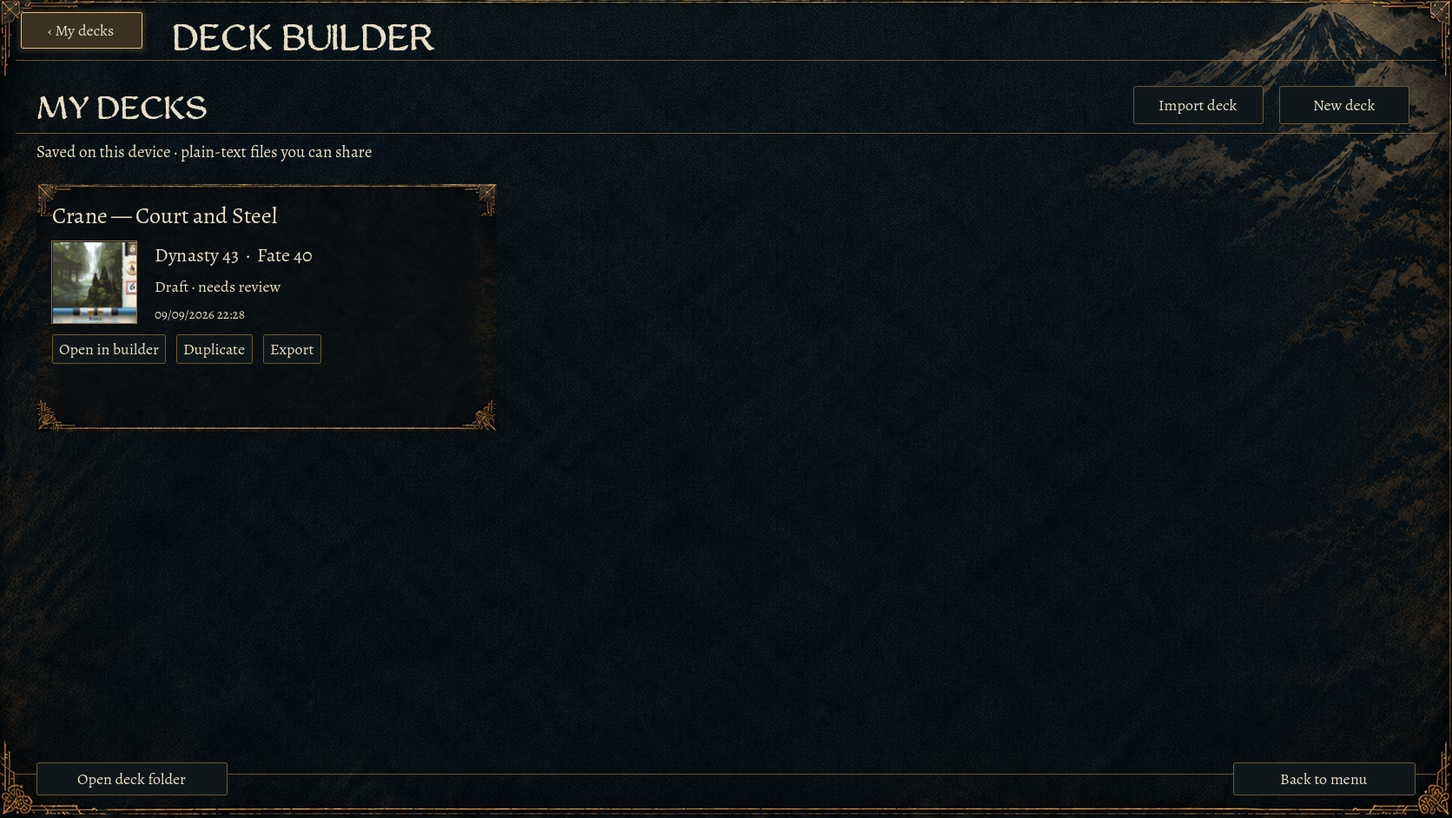
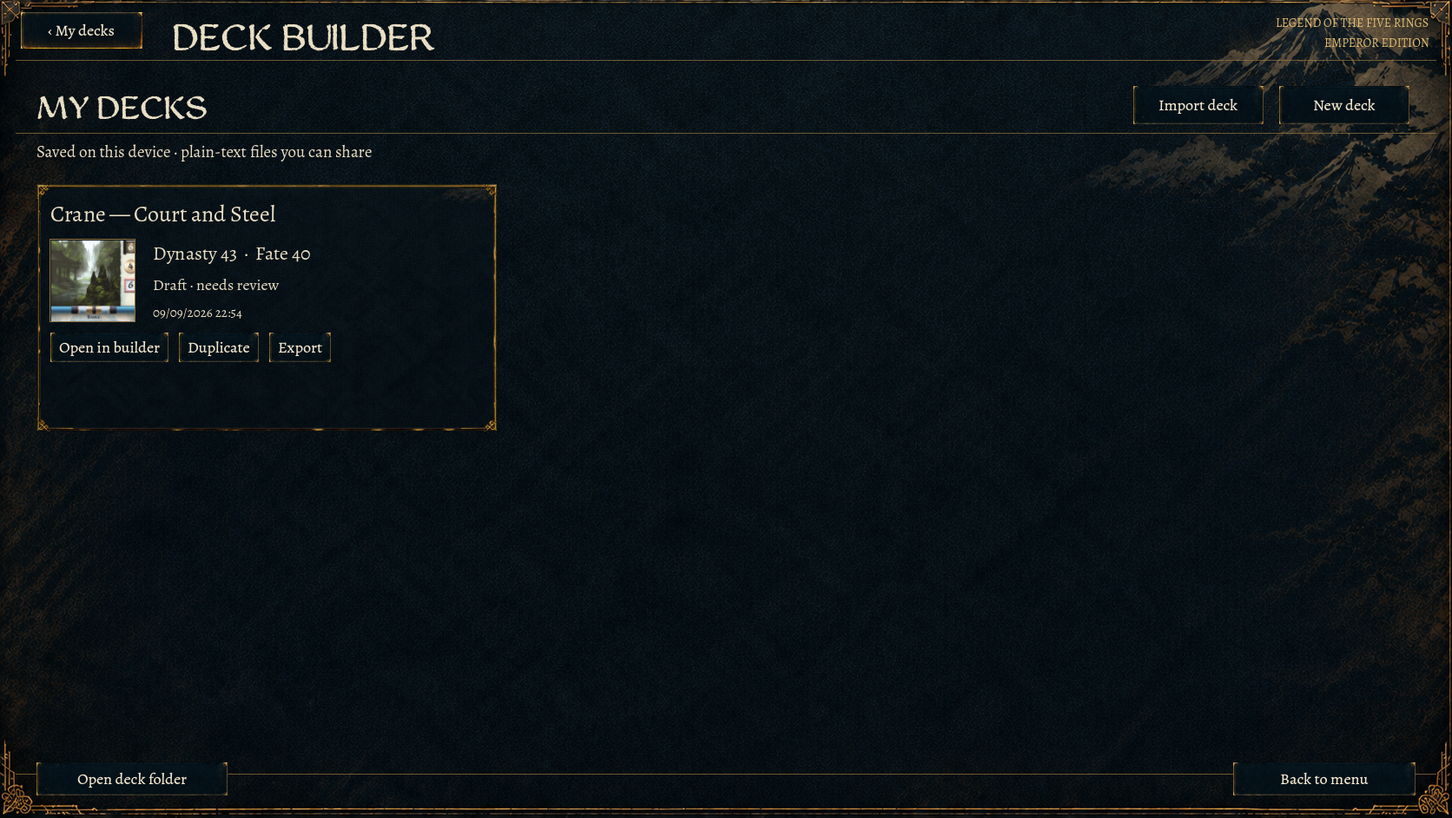
Replace flat deck controls with generated brass and lacquer materials

diff --git a/docs/screenshots/deck-builder/index-v2.html b/docs/screenshots/deck-builder/index-v2.html
@@ -1,0 +1,1 @@
+<!doctype html><meta charset="utf-8"><title>Deck builder · Material pass</title><style>body{background:#091217;color:#e9dfc5;font:18px Georgia;margin:28px}h1,h2{color:#dfba73}section{margin:38px 0}.pair{display:grid;grid-template-columns:1fr 1fr;gap:22px}figure{margin:12px 0}figcaption{margin-bottom:12px;color:#cec1a0}img.full{width:100%;border:1px solid #8a7045}a{color:#ecd3a2}p{max-width:1100px;line-height:1.6}.detail{position:relative;overflow:hidden;border:1px solid #806a43;background:#071014}.detail img{position:absolute;max-width:none;width:3344px}@media(max-width:1000px){.pair{grid-template-columns:1fr}}</style><h1>Deck builder · Material pass</h1><p>Native Godot captures after replacing the rejected flat controls. Generated lacquer and brass are now the actual button materials; labels, selection states and quantities remain live. Panel borders, checkbox/radio markers, setup thumbnails, dropdowns and dialogs share the treatment.</p><section><h2>Approved mat versus revised game</h2><div class="pair"><figure><figcaption>Reference / previous</figcaption><a href="../../../assets/ui/deck-builder/H-quantity-toolbar.png"><img class="full" src="../../../assets/ui/deck-builder/H-quantity-toolbar.png"></a></figure><figure><figcaption>Actual game</figcaption><a href="mat-v2.png"><img class="full" src="mat-v2.png"></a></figure></div></section><section><h2>Approved setup versus revised game</h2><div class="pair"><figure><figcaption>Reference / previous</figcaption><a href="../../../assets/ui/deck-builder/I-setup-category.png"><img class="full" src="../../../assets/ui/deck-builder/I-setup-category.png"></a></figure><figure><figcaption>Actual game</figcaption><a href="setup-v2.png"><img class="full" src="setup-v2.png"></a></figure></div></section><section><h2>Previous implementation versus material pass</h2><div class="pair"><figure><figcaption>Reference / previous</figcaption><a href="mat-v1.png"><img class="full" src="mat-v1.png"></a></figure><figure><figcaption>Actual game</figcaption><a href="mat-v2.png"><img class="full" src="mat-v2.png"></a></figure></div></section><section><h2>Controls at 2× · reference and actual game</h2><h3>Gold Save button</h3><div class="pair"><figure><figcaption>Approved source</figcaption><div class="detail" style="width:380px;height:110px"><img src="../../../assets/ui/deck-builder/H-quantity-toolbar.png" style="left:-2272px;top:-18px"></div></figure><figure><figcaption>Native game</figcaption><div class="detail" style="width:380px;height:110px"><img src="mat-v2.png" style="left:-2272px;top:-18px"></div></figure></div><h3>Selected Collection tab</h3><div class="pair"><figure><figcaption>Approved source</figcaption><div class="detail" style="width:310px;height:96px"><img src="../../../assets/ui/deck-builder/H-quantity-toolbar.png" style="left:-40px;top:-322px"></div></figure><figure><figcaption>Native game</figcaption><div class="detail" style="width:310px;height:96px"><img src="mat-v2.png" style="left:-44px;top:-330px"></div></figure></div><h3>Quantity controls</h3><div class="pair"><figure><figcaption>Approved source</figcaption><div class="detail" style="width:304px;height:138px"><img src="../../../assets/ui/deck-builder/H-quantity-toolbar.png" style="left:-808px;top:-1002px"></div></figure><figure><figcaption>Native game</figcaption><div class="detail" style="width:304px;height:138px"><img src="mat-v2.png" style="left:-806px;top:-1036px"></div></figure></div></section><section><h2>Inspection and comparison</h2><a href="compare-v2.png"><img class="full" src="compare-v2.png"></a></section><section><h2>Dropdown menu</h2><a href="filter-menu-v2.png"><img class="full" src="filter-menu-v2.png"></a></section><section><h2>Unsaved-draft dialog</h2><a href="after-guard-v2.png"><img class="full" src="after-guard-v2.png"></a></section><section><h2>Compact window · 1280 × 800</h2><a href="small-window-v2.png"><img class="full" src="small-window-v2.png"></a></section><section><h2>Saved decks</h2><a href="saved-decks-v2.png"><img class="full" src="saved-decks-v2.png"></a></section>

diff --git a/src/L5R.Client/DeckBuilderScreen.cs b/src/L5R.Client/DeckBuilderScreen.cs
@@ -45,8 +45,7 @@ public partial class DeckBuilderScreen : Control
     public override void _Ready()
     {
         _previousEmbed=GetViewport().GuiEmbedSubwindows;GetViewport().GuiEmbedSubwindows=true;
-        Theme=CatalogueArt.Theme();
-        foreach(var type in new[]{"Button","OptionButton"})foreach(var state in new[]{"normal","hover","pressed","disabled","focus"}){var box=(StyleBox)Theme.GetStylebox(state,type).Duplicate();box.ContentMarginTop=4;box.ContentMarginBottom=4;box.ContentMarginLeft=8;box.ContentMarginRight=8;Theme.SetStylebox(state,type,box);}
+        Theme=DeckSkin.Theme();
         MouseFilter=MouseFilterEnum.Stop;
         _byId=Data.Cards.ToDictionary(c=>c.Id);Draft=NewDraft();
         Store=new DeckFileStore(StorageDirectory??ProjectSettings.GlobalizePath("user://decks"));
@@ -75,8 +74,10 @@ public partial class DeckBuilderScreen : Control
         _name.TextChanged+=_=>{if(!_building){Dirty=true;UpdateStatus();}};
         _dirtyLabel=CatalogueArt.Label("",16);_header.AddChild(_dirtyLabel);
         _save=CatalogueArt.Button("Save draft",()=>SaveDraft());_header.AddChild(_save);
-        foreach(var state in new[]{"normal","hover","pressed"}){_save.AddThemeStyleboxOverride(state,Palette.Box(new Color(state=="normal"?"ad8950":"c9a763"),new Color("e2bc76"),6,2));_save.AddThemeColorOverride("font_"+(state=="normal"?"color":state+"_color"),new Color("17140f"));}
-        var copy=CatalogueArt.Button("Save a copy",SaveCopy);copy.Name="Copy";_header.AddChild(copy);
+        DeckSkin.Primary(_save);
+        var copy=new MenuButton{Name="Copy",Text="",Icon=DeckSkin.Icon("more"),IconAlignment=HorizontalAlignment.Center,Flat=false,TooltipText="More deck actions",AccessibilityName="More deck actions"};copy.AddThemeFontSizeOverride("font_size",25);_header.AddChild(copy);
+        var menu=copy.GetPopup();menu.AddItem("Save a copy…",0);menu.AddItem("Export draft…",1);menu.IdPressed+=id=>{if(id==0)SaveCopy();else ExportFile(Draft.ToDeck(),_name.Text);};
+        var brand=CatalogueArt.Label("LEGEND OF THE FIVE RINGS\nEMPEROR EDITION",14);brand.Name="Brand";brand.HorizontalAlignment=HorizontalAlignment.Right;brand.AddThemeColorOverride("font_color",DeckSkin.Gold);_header.AddChild(brand);
     }
     private void BuildCollectionControls()
     {
@@ -95,8 +96,8 @@ public partial class DeckBuilderScreen : Control
     {
         _group=Option(new[]{"Group: Type","Group: Gold","Group: None"},()=>RefreshMat());_sort=Option(new[]{"Name A–Z","Gold cost","Force","Chi"},()=>{ApplyFilters();RefreshMat();});
         Put(_toolbar,_group,8,8,162,38);Put(_toolbar,_sort,180,8,154,38);
-        Put(_toolbar,CatalogueArt.Button("Mat",()=>{_list=false;RefreshMat();}),356,8,80,38);
-        Put(_toolbar,CatalogueArt.Button("List",()=>{_list=true;RefreshMat();}),440,8,80,38);
+        var mat=CatalogueArt.Button("Mat",()=>{_list=false;RefreshMat();});mat.Name="MatTab";Put(_toolbar,mat,356,8,80,38);
+        var list=CatalogueArt.Button("List",()=>{_list=true;RefreshMat();});list.Name="ListTab";Put(_toolbar,list,440,8,80,38);
         _compareButton=CatalogueArt.Button("Compare (0)",()=>ShowComparison(_compare.Select(id=>_byId[id]).ToArray()));Put(_toolbar,_compareButton,540,8,156,38);
         var label=CatalogueArt.Label("Card size",16);label.Name="SizeLabel";_toolbar.AddChild(label);
         var slider=new HSlider{Name="CardSize",MinValue=110,MaxValue=270,Step=2,Value=176,TooltipText="Resize card faces; controls remain readable."};slider.ValueChanged+=v=>{Mat.CardWidth=(float)v;HideHover();RefreshMat();};_toolbar.AddChild(slider);
@@ -108,7 +109,8 @@ public partial class DeckBuilderScreen : Control
         Place(_header,0,0,_w,70);Place(_setupStrip,14,74,_w-28,76);Place(_left,16,164,326,278);
         Place(Collection,28,442,310,_h-492);Place(_toolbar,362,158,_w-380,58);Place(Mat,362,216,_w-380,_h-269);
         Place(_empty,392,360,_w-440,100);Place(_status,378,_h-43,_w-600,28);Place(_count,24,_h-40,325,25);
-        Place(_dirtyLabel,_w-520,22,176,30);Place(_save,_w-330,15,145,42);Place(_header.GetNode<Control>("Copy"),_w-175,15,150,42);
+        Place(_name,560,16,Math.Clamp(_w-1280,240,390),42);
+        Place(_dirtyLabel,_w-700,22,160,30);Place(_save,_w-530,15,180,42);Place(_header.GetNode<Control>("Copy"),_w-342,15,38,42);Place(_header.GetNode<Control>("Brand"),_w-290,16,264,40);
         Place(_toolbar.GetNode<Control>("SizeLabel"),_toolbar.Size.X-280,16,85,25);Place(_toolbar.GetNode<Control>("CardSize"),_toolbar.Size.X-187,14,172,32);
         Place(_setupTools,362,158,_w-380,58);Place(_library,22,84,_w-44,_h-104);_overlay.Size=_canvas.Size;
         if(IsInsideTree()){BuildSetupStrip();if(Page=="decks")BuildDeckList();else if(_setupSlot.Length>0)BuildSetupChoices();}
@@ -118,21 +120,29 @@ public partial class DeckBuilderScreen : Control
     {
         if(_canvas.Scale.X<=0)return;var s=_canvas.Scale.X;
         foreach(var y in new[]{70f,154f,_h-50})_lines.DrawLine(new Vector2(18,y)*s,new Vector2(_w-18,y)*s,new Color(.64f,.49f,.26f,.65f),1);
-        if(Page!="decks")_lines.DrawLine(new Vector2(348,160)*s,new Vector2(348,_h-54)*s,new Color(.64f,.49f,.26f,.6f),1);
+        if(Page!="decks")
+        {
+            DeckSkin.Frame().Draw(_lines.GetCanvasItem(),new Rect2(13*s,155*s,337*s,(_h-205)*s));
+            DeckSkin.Frame().Draw(_lines.GetCanvasItem(),new Rect2(352*s,155*s,(_w-366)*s,(_h-205)*s));
+        }
     }
     private void BuildSetupStrip()
     {
         Palette.Clear(_setupStrip);if(Draft is null)return;
-        var x=10f;foreach(var slot in DeckWorkshop.SetupSlots)
+        var stronghold=Draft.Cards.FirstOrDefault(c=>c.SetupSlot=="Stronghold");var clan=stronghold is null?_setupClan:_byId[stronghold.Id].Clans.FirstOrDefault()??"Unaligned";
+        Put(_setupStrip,CatalogueArt.Clan(clan),9,8,58,58);
+        var x=78f;foreach(var slot in DeckWorkshop.SetupSlots)
         {
             var info=Draft.Cards.FirstOrDefault(c=>c.SetupSlot==slot);var card=info is null?null:_byId[info.Id];
             if(card is not null)Put(_setupStrip,new DeckThumbnail(card,Scans),x,9,45,55);
             var b=CatalogueArt.Button(slot+"\n"+(card?.Name??"Select…"),()=>SetSetup(slot));b.Alignment=HorizontalAlignment.Left;b.AddThemeFontSizeOverride("font_size",16);b.AddThemeStyleboxOverride("normal",new StyleBoxEmpty());
-            Put(_setupStrip,b,x+53,6,200,61);x+=259;
+            b.ClipText=true;Put(_setupStrip,b,x+53,6,163,61);x+=221;
         }
         Put(_setupStrip,CatalogueArt.Button("Change setup",()=>SetSetup("Stronghold")),x,15,145,44);
         _dynasty=CatalogueArt.Button("",()=>SetFamily("Dynasty"));_fate=CatalogueArt.Button("",()=>SetFamily("Fate"));
-        var tabW=Math.Max(185,(_w-985)/2);Put(_setupStrip,_dynasty,_w-2*tabW-42,7,tabW-8,62);Put(_setupStrip,_fate,_w-tabW-34,7,tabW-8,62);UpdateStatus();
+        var tabW=Math.Max(185,(_w-985)/2);Put(_setupStrip,_dynasty,_w-2*tabW-42,7,tabW-8,62);Put(_setupStrip,_fate,_w-tabW-34,7,tabW-8,62);
+        foreach(var tab in new[]{_dynasty,_fate}){var icon=CatalogueArt.Clan(clan);Put(tab,icon,12,11,40,40);tab.AddThemeFontSizeOverride("font_size",20);}
+        UpdateStatus();
     }
     public void SetFamily(string family){Family=family;SetSetup("");ApplyFilters();RefreshMat(true);}
     public void SetSetup(string slot)
@@ -140,21 +150,25 @@ public partial class DeckBuilderScreen : Control
         _setupSlot=slot;HideHover();Palette.Clear(_left);BuildCollectionControls();
         _toolbar.Visible=slot.Length==0;_setupTools.Visible=slot.Length>0;Collection.Visible=slot.Length==0;
         if(slot.Length>0)BuildSetupChoices();else {ApplyFilters();RefreshMat(true);}
-        _collectionTab.Modulate=slot.Length==0?Colors.White:CatalogueArt.Muted;_setupTab.Modulate=slot.Length>0?Colors.White:CatalogueArt.Muted;UpdateStatus();
+        if(slot.Length==0){DeckSkin.Selected(_collectionTab,true);DeckSkin.Selected(_setupTab,false);}UpdateStatus();
     }
     private void BuildSetupChoices()
     {
         Palette.Clear(_left);
-        Put(_left,CatalogueArt.Button("Collection",()=>SetSetup("")),12,6,148,40);Put(_left,CatalogueArt.Button("Setup",()=>{}),166,6,148,40);
+        Put(_left,CatalogueArt.Button("Collection",()=>SetSetup("")),12,6,148,40);var setupTab=CatalogueArt.Button("Setup",()=>{});DeckSkin.Selected(setupTab,true);Put(_left,setupTab,166,6,148,40);
         var clans=Option(new[]{"Crab","Crane","Dragon","Lion","Mantis","Phoenix","Scorpion","Spider","Unicorn","Unaligned"},()=>{});
         clans.Select(Array.IndexOf(new[]{"Crab","Crane","Dragon","Lion","Mantis","Phoenix","Scorpion","Spider","Unicorn","Unaligned"},_setupClan));
         clans.ItemSelected+=i=>{_setupClan=clans.GetItemText((int)i);BuildSetupChoices();};Put(_left,clans,12,62,300,42);
         var y=124f;foreach(var slot in DeckWorkshop.SetupSlots)
         {
-            var info=Draft.Cards.FirstOrDefault(c=>c.SetupSlot==slot);var b=CatalogueArt.Button(slot+(info is null?"":"  ✓"),()=>SetSetup(slot));b.Alignment=HorizontalAlignment.Left;
-            Put(_left,b,12,y,300,60);y+=76;
+            var info=Draft.Cards.FirstOrDefault(c=>c.SetupSlot==slot);var b=CatalogueArt.Button(slot+"\n"+(info?.Name??"Select a card"),()=>SetSetup(slot));b.Alignment=HorizontalAlignment.Left;
+            var style=DeckSkin.Plate(slot==_setupSlot?1:0);style.ContentMarginLeft=88;style.ContentMarginRight=26;b.AddThemeStyleboxOverride("normal",style);
+            foreach(var state in new[]{"hover","pressed"}){var h=DeckSkin.Plate(1);h.ContentMarginLeft=88;h.ContentMarginRight=26;b.AddThemeStyleboxOverride(state,h);}
+            b.AccessibilityName="Choose "+slot;b.AddThemeFontSizeOverride("font_size",18);b.ClipText=true;Put(_left,b,12,y,300,84);
+            if(info is not null)Put(b,new DeckThumbnail(_byId[info.Id],Scans),8,8,68,68);
+            var mark=new TextureRect{Texture=DeckSkin.Icon(info is null?"radio":"selected"),MouseFilter=MouseFilterEnum.Ignore};Put(b,mark,272,32,20,20);y+=96;
         }
-        Put(_left,Palette.Wrapped("Choose one of each.\nKept outside both decks.\n\nBorder Keep starts in play.\n\nBamboo Harvesters starts bowed for the second player only.",19,CatalogueArt.Ivory),16,y+20,285,250);
+        Put(_left,Palette.Wrapped("Choose one of each.\nKept outside both decks.\n\nBorder Keep starts in play.\nBamboo Harvesters starts bowed for the second player only.",18,CatalogueArt.Ivory),16,y+20,285,225);
         Palette.Clear(_setupTools);_setupTools.Visible=true;_toolbar.Visible=false;Put(_setupTools,CatalogueArt.Label("Choose your "+_setupSlot,32,true),14,6,_toolbar.Size.X-190,48);
         Put(_setupTools,CatalogueArt.Button("Back to deck",()=>SetSetup("")),_toolbar.Size.X-170,8,150,38);
         var infos=Data.Cards.Where(c=>new DeckCardInfo(c.Id,c.Name,c.Types,c.DeckTypes,c.Keywords,c.Playable).SetupSlot==_setupSlot);
@@ -174,6 +188,7 @@ public partial class DeckBuilderScreen : Control
         if(Page=="decks"||_setupSlot.Length>0)return;
         var ids=Draft.Cards.Where(c=>c.SetupSlot.Length==0&&c.Families.Contains(Family)).Select(c=>c.Id).ToHashSet();
         var cards=Data.Filter(sort:_sort.Text).Where(c=>ids.Contains(c.Id)).ToArray();
+        DeckSkin.Selected(_toolbar.GetNode<Button>("MatTab"),!_list);DeckSkin.Selected(_toolbar.GetNode<Button>("ListTab"),_list);
         Mat.Setup=false;Mat.Rows=_list;Mat.Group=_group.Selected switch{1=>"Gold",2=>"None",_=>"Type"};Mat.Reset(cards,reset);
         _empty.Visible=cards.Length==0;_empty.Text="Your "+Family+" mat is empty.\nAdd cards from the collection to begin.";
     }
@@ -182,7 +197,12 @@ public partial class DeckBuilderScreen : Control
     private void UpdateStatus()
     {
         if(_status is null||Draft is null)return;var r=Draft.Review();
-        if(_dynasty is not null){_dynasty.Text=$"DYNASTY  {r.Dynasty}\n40 minimum";_fate.Text=$"FATE  {r.Fate}\n40 minimum";_dynasty.Modulate=Family=="Dynasty"?Colors.White:CatalogueArt.Muted;_fate.Modulate=Colors.White;_dynasty.AddThemeStyleboxOverride("normal",Palette.Box(new Color(Family=="Dynasty"?"372c1b":"0c1113"),CatalogueArt.Gold,6,2));_fate.AddThemeStyleboxOverride("normal",Palette.Box(new Color(Family=="Fate"?"203c2c":"10251f"),CatalogueArt.Gold,6,2));}
+        if(_dynasty is not null)
+        {
+            _dynasty.Text=$"DYNASTY  {r.Dynasty}\n40 minimum";_fate.Text=$"FATE  {r.Fate}\n40 minimum";
+            DeckSkin.Selected(_dynasty,Family=="Dynasty");if(Family=="Dynasty"){var brass=DeckSkin.Plate(2);brass.ModulateColor=new Color(.58f,.5f,.38f,1);_dynasty.AddThemeStyleboxOverride("normal",brass);}_fate.AddThemeStyleboxOverride("normal",DeckSkin.Plate(3));
+            _fate.AddThemeColorOverride("font_color",Family=="Fate"?new Color("ffebae"):DeckSkin.Text);
+        }
         _status.Text=r.Warnings.Length>0?$"{r.Warnings.Length} deck checks to review  ·  Draft can still be saved":"Basic checks passed  ·  Draft can be saved";
         _status.TooltipText=string.Join("\n",r.Warnings);_status.MouseFilter=MouseFilterEnum.Stop;
         _dirtyLabel.Text=Dirty?"Unsaved changes":"Saved locally";_compareButton.Text=$"Compare ({_compare.Count})";_compareButton.Disabled=_compare.Count==0;

diff --git a/src/L5R.Client/DeckSkin.cs b/src/L5R.Client/DeckSkin.cs
@@ -1,0 +1,87 @@
+using Godot;
+namespace L5R.Client;
+
+/// <summary>Image-generated lacquer/brass materials, with live labels and resizable nine-slice borders.</summary>
+public static class DeckSkin
+{
+    public static readonly Color Text=new("f2e7cf"),Gold=new("e1bd72");
+    public static Font Body {get;}=new FontVariation{BaseFont=Palette.Body,VariationEmbolden=.22f};
+    public static StyleBoxTexture Plate(int state=0,int padding=10)
+    {
+        var texture=GD.Load<Texture2D>("res://Art/DeckBuilder/control-materials-v2.png");var scale=texture.GetWidth()/1536f;
+        var y=new[]{97f,323f,548f,770f}[state];
+        var atlas=new AtlasTexture{Atlas=texture,Region=new Rect2(62*scale,y*scale,1416*scale,154*scale),FilterClip=true};
+        return new StyleBoxTexture{Texture=atlas,TextureMarginLeft=12,TextureMarginRight=12,TextureMarginTop=5,TextureMarginBottom=5,
+            ContentMarginLeft=padding,ContentMarginRight=padding,ContentMarginTop=4,ContentMarginBottom=4};
+    }
+    public static StyleBoxTexture Frame()
+    {
+        var texture=GD.Load<Texture2D>("res://Art/DeckBuilder/panel-frame-v2.png");var s=texture.GetWidth()/1536f;
+        return new StyleBoxTexture{Texture=new AtlasTexture{Atlas=texture,Region=new Rect2(25*s,25*s,1486*s,974*s),FilterClip=true},
+            TextureMarginLeft=16,TextureMarginRight=16,TextureMarginTop=16,TextureMarginBottom=16,DrawCenter=false,
+            ContentMarginLeft=16,ContentMarginRight=16,ContentMarginTop=16,ContentMarginBottom=16};
+    }
+    public static Texture2D Icon(string kind)
+    {
+        var shape=kind switch
+        {
+            "more"=>"<g fill='#ead7af'><circle cx='4' cy='10' r='1.5'/><circle cx='10' cy='10' r='1.5'/><circle cx='16' cy='10' r='1.5'/></g>",
+            "knob"=>"<circle cx='10' cy='10' r='6' fill='#efe9dc' stroke='#ac9062' stroke-width='1'/>",
+            "arrow"=>"<path d='M5 8 L10 13 L15 8 Z' fill='#ddbd79'/>",
+            "checked"=>"<rect x='2' y='2' width='16' height='16' rx='2' fill='#ddbd79' stroke='#ffe4a4'/><path d='M5 10 L9 14 L15 6' fill='none' stroke='#241d12' stroke-width='2'/>",
+            "radio"=>"<circle cx='10' cy='10' r='8' fill='#11191b' stroke='#eacb86' stroke-width='1.5'/>",
+            "selected"=>"<circle cx='10' cy='10' r='8' fill='#d4af62' stroke='#ffe6a9' stroke-width='1.5'/><circle cx='10' cy='10' r='4' fill='#172126'/>",
+            _=>"<rect x='2' y='2' width='16' height='16' rx='2' fill='#0a1519' stroke='#ddbd79' stroke-width='1.5'/>"
+        };
+        var image=new Image();image.LoadSvgFromString("<svg xmlns='http://www.w3.org/2000/svg' width='20' height='20' viewBox='0 0 20 20'>"+shape+"</svg>");return ImageTexture.CreateFromImage(image);
+    }
+    public static Theme Theme()
+    {
+        var t=CatalogueArt.Theme();t.DefaultFont=Body;t.DefaultFontSize=18;
+        foreach(var type in new[]{"Button","OptionButton"})
+        {
+            t.SetStylebox("normal",type,Plate());t.SetStylebox("hover",type,Plate(1));t.SetStylebox("pressed",type,Plate(1));
+            var disabled=Plate();disabled.ModulateColor=new Color(.65f,.65f,.65f,.9f);t.SetStylebox("disabled",type,disabled);
+            var focus=Plate(1);focus.DrawCenter=false;t.SetStylebox("focus",type,focus);
+            foreach(var state in new[]{"font_color","font_hover_color","font_pressed_color","font_focus_color"})t.SetColor(state,type,Text);
+            t.SetColor("font_disabled_color",type,new Color("9f987f"));t.SetColor("font_shadow_color",type,new Color(0,0,0,.8f));t.SetConstant("shadow_offset_y",type,1);
+        }
+        t.SetStylebox("normal","LineEdit",Plate());t.SetStylebox("focus","LineEdit",Plate(1));t.SetColor("font_color","LineEdit",Text);
+        t.SetColor("font_placeholder_color","LineEdit",new Color("aaa18d"));
+        t.SetStylebox("slider","HSlider",new StyleBoxLine{Color=new Color("6c695e"),Thickness=2});
+        t.SetStylebox("grabber_area","HSlider",new StyleBoxLine{Color=new Color("e5dbc2"),Thickness=2});t.SetStylebox("grabber_area_highlight","HSlider",new StyleBoxLine{Color=Gold,Thickness=2});
+        t.SetIcon("grabber","HSlider",Icon("knob"));t.SetIcon("grabber_highlight","HSlider",Icon("knob"));
+        var dialog=new DeckPanelStyle();t.SetStylebox("panel","AcceptDialog",dialog);
+        var window=Plate();window.ExpandMarginTop=32;t.SetStylebox("embedded_border","Window",window);t.SetStylebox("embedded_unfocused_border","Window",window);
+        t.SetColor("title_color","Window",Text);t.SetFont("title_font","Window",Body);t.SetFontSize("title_font_size","Window",20);
+        t.SetStylebox("panel","PopupMenu",new DeckPanelStyle());t.SetStylebox("hover","PopupMenu",Plate(1,8));t.SetStylebox("panel","TooltipPanel",Plate(0,12));
+        t.SetIcon("arrow","OptionButton",Icon("arrow"));t.SetIcon("checked","CheckBox",Icon("checked"));t.SetIcon("unchecked","CheckBox",Icon("unchecked"));
+        return t;
+    }
+    public static void Selected(Button button,bool selected,int material=1)
+    {
+        button.AddThemeStyleboxOverride("normal",Plate(selected?material:0));
+        button.AddThemeColorOverride("font_color",selected?new Color("ffebae"):Text);
+    }
+    public static void Primary(Button button)
+    {
+        foreach(var state in new[]{"normal","hover","pressed"})button.AddThemeStyleboxOverride(state,Plate(2));
+        foreach(var state in new[]{"font_color","font_hover_color","font_pressed_color"})button.AddThemeColorOverride(state,new Color("211708"));
+        button.AddThemeFontOverride("font",new FontVariation{BaseFont=Palette.Body,VariationEmbolden=.65f});button.AddThemeColorOverride("font_shadow_color",Colors.Transparent);
+    }
+}
+
+/// <summary>Preserves the cloth's proportions behind a separately sliced gilded frame.</summary>
+public partial class DeckPanelStyle : StyleBox
+{
+    public DeckPanelStyle(){ContentMarginLeft=16;ContentMarginRight=16;ContentMarginTop=16;ContentMarginBottom=16;}
+    public override Vector2 _GetMinimumSize()=>new(32,32);
+    public override void _Draw(Rid canvasItem,Rect2 rect)
+    {
+        if(rect.Size.X<=0||rect.Size.Y<=0)return;
+        var cloth=GD.Load<Texture2D>("res://Art/DeckBuilder/work-mat.png");var size=cloth.GetSize()*.65f;var aspect=rect.Size.X/rect.Size.Y;
+        if(size.X/size.Y>aspect)size.X=size.Y*aspect;else size.Y=size.X/aspect;
+        RenderingServer.CanvasItemAddTextureRectRegion(canvasItem,rect,cloth.GetRid(),new Rect2((cloth.GetSize()-size)/2,size));
+        DeckSkin.Frame().Draw(canvasItem,rect);
+    }
+}

diff --git a/src/L5R.Client/DeckBuilderScreen.Cards.cs b/src/L5R.Client/DeckBuilderScreen.Cards.cs
@@ -27,17 +27,19 @@ public partial class DeckBuilderScreen
         {
             var selected=Draft.Count(card.Name)==1;var select=CatalogueArt.Button(selected?"Selected":"Select",()=>{
                 Draft.SelectSetup(card.Name);Dirty=true;HideHover();BuildSetupStrip();BuildSetupChoices();UpdateStatus();
-            });select.AccessibilityName="Select "+card.Name;select.Disabled=selected;item.AddChild(select);
-            item.Resized+=()=>{var w=item.Size.X;Place(face,0,0,w,w*1.4f+8);Place(note,0,w*1.4f+9,w,18);Place(select,12,w*1.4f+30,w-24,36);};
+            });select.AccessibilityName="Select "+card.Name;select.Disabled=selected;select.Icon=DeckSkin.Icon(selected?"selected":"radio");select.AddThemeConstantOverride("h_separation",12);
+            foreach(var state in new[]{"normal","disabled","hover"})select.AddThemeStyleboxOverride(state,new StyleBoxEmpty());
+            select.AddThemeColorOverride("font_disabled_color",new Color("edca79"));select.AddThemeColorOverride("icon_disabled_color",Colors.White);select.AddThemeFontSizeOverride("font_size",22);item.AddChild(select);
+            item.Resized+=()=>{var w=item.Size.X;Place(face,0,0,w,w*1.4f+8);Place(note,0,w*1.4f+9,w,18);Place(select,w/2-75,w*1.4f+30,150,36);};
         }
         else
         {
             var minus=CatalogueArt.Button("−",()=>Adjust(card,-1));minus.AccessibilityName="Remove "+card.Name;item.AddChild(minus);
             var count=CatalogueArt.Label(Draft.Count(card.Name).ToString(),22);count.HorizontalAlignment=HorizontalAlignment.Center;if(Draft.Review().OverLimit.Contains(card.Name))count.AddThemeColorOverride("font_color",new Color("f37c64"));item.AddChild(count);
             var plus=CatalogueArt.Button("+",()=>Adjust(card,1));plus.AccessibilityName="Add "+card.Name;item.AddChild(plus);
-            var check=new CheckBox{Text=_compare.Contains(card.Id)?"☑ Compare":"☐ Compare",ButtonPressed=_compare.Contains(card.Id)};foreach(var state in new[]{"normal","hover","pressed","hover_pressed","focus"})check.AddThemeStyleboxOverride(state,new StyleBoxEmpty());check.AddThemeFontSizeOverride("font_size",15);check.Toggled+=value=>{
-                check.Text=value?"☑ Compare":"☐ Compare";
-                if(value&&_compare.Count>=3){check.SetPressedNoSignal(false);check.Text="☐ Compare";Notice("Compare up to three cards at a time. Remove a selection to compare another.");return;}
+            var check=new CheckBox{Text="Compare",ButtonPressed=_compare.Contains(card.Id)};foreach(var state in new[]{"normal","hover","pressed","hover_pressed","focus"})check.AddThemeStyleboxOverride(state,new StyleBoxEmpty());check.AddThemeFontSizeOverride("font_size",15);check.Toggled+=value=>{
+
+                if(value&&_compare.Count>=3){check.SetPressedNoSignal(false);Notice("Compare up to three cards at a time. Remove a selection to compare another.");return;}
                 if(value)_compare.Add(card.Id);else _compare.Remove(card.Id);face.Selected=value;face.QueueRedraw();UpdateStatus();
             };check.AccessibilityName="Compare "+card.Name;item.AddChild(check);
             item.Resized+=()=>{var w=item.Size.X;var y=w*1.4f+12;Place(face,0,0,w,w*1.4f+8);Place(note,0,y-4,w,18);Place(minus,w/2-59,y+13,32,29);Place(count,w/2-23,y+13,46,29);Place(plus,w/2+27,y+13,32,29);Place(check,Math.Max(0,w/2-53),y+44,110,26);};
@@ -49,7 +51,7 @@ public partial class DeckBuilderScreen
         var ticket=++_hoverTicket;await ToSignal(GetTree().CreateTimer(.5),SceneTreeTimer.SignalName.Timeout);
         if(!IsInstanceValid(this)||!IsInsideTree()||ticket!=_hoverTicket||_overlay.Visible||!IsInstanceValid(target)||!target.IsInsideTree())return;
         Palette.Clear(_hover);var w=290f;var h=465f;
-        var panel=new Panel();panel.AddThemeStyleboxOverride("panel",CatalogueArt.Frame(12));panel.MouseFilter=MouseFilterEnum.Ignore;Put(_hover,panel,0,0,w,h);
+        var panel=new Panel();panel.AddThemeStyleboxOverride("panel",new DeckPanelStyle());panel.MouseFilter=MouseFilterEnum.Ignore;Put(_hover,panel,0,0,w,h);
         var face=new DeckFace(card,Scans){MouseFilter=MouseFilterEnum.Ignore};Put(panel,face,16,12,258,370);
         var label=Palette.Wrapped(card.Name+"\n"+(card.Playable?"Game printing":"Reference · not implemented")+"\nClick to inspect",16,CatalogueArt.Ivory);label.MouseFilter=MouseFilterEnum.Ignore;Put(panel,label,16,386,258,68);
         var r=target.GetGlobalRect();var p=(r.End/_canvas.Scale.X);var x=p.X+12;if(x+w>_w-16)x=r.Position.X/_canvas.Scale.X-w-12;
@@ -61,7 +63,7 @@ public partial class DeckBuilderScreen
     {
         HideHover();Palette.Clear(_overlay);_overlay.Show();
         var shade=new ColorRect{Color=new Color(0,0,0,.72f)};Put(_overlay,shade,0,0,_w,_h);
-        var panel=new Panel();panel.AddThemeStyleboxOverride("panel",CatalogueArt.Frame(18));Put(_overlay,panel,52,40,_w-104,_h-80);
+        var panel=new Panel();panel.AddThemeStyleboxOverride("panel",new DeckPanelStyle());Put(_overlay,panel,52,40,_w-104,_h-80);
         Put(panel,CatalogueArt.Label(title,35,true),26,16,panel.Size.X-120,45);Put(panel,CatalogueArt.Button("×",CloseOverlay),panel.Size.X-66,17,40,38);
         return panel;
     }

diff --git a/src/L5R.Client/DeckBuilderProbe.cs b/src/L5R.Client/DeckBuilderProbe.cs
@@ -18,13 +18,15 @@ public partial class DeckBuilderProbe : Node
             Check(_screen.Draft.Count("Border Keep")==1&&_screen.Draft.Count("Bamboo Harvesters")==1,"default setup chosen outside deck totals");
             Check(_screen.Draft.Review().Dynasty==0&&_screen.Draft.Review().Fate==0,"setup excluded from counts");
             var select=Walk(_screen).OfType<Button>().First(b=>b.Text=="Select"&&b.IsVisibleInTree());Click(select);await Wait(.5);Check(_screen.Draft.Cards.Count(c=>c.SetupSlot=="Stronghold")==1,"native single stronghold selection");await Capture("setup-selected");
-            Click(Button("Border Keep  ✓"));await Wait(.4);var alternatives=Walk(_screen).OfType<Button>().Where(b=>b.Text=="Select"&&b.IsVisibleInTree()).ToArray();
+            Click(Walk(_screen).OfType<Button>().Single(b=>b.AccessibilityName=="Choose Border Keep"&&b.IsVisibleInTree()));await Wait(.4);var alternatives=Walk(_screen).OfType<Button>().Where(b=>b.Text=="Select"&&b.IsVisibleInTree()).ToArray();
             if(alternatives.Length>0){Click(alternatives[0]);await Wait(.3);Check(_screen.Draft.Cards.Count(c=>c.SetupSlot=="Border Keep")==1,"setup variant replaces previous starting card");}
             Check(!Walk(_screen).OfType<OptionButton>().Any(o=>o.GetItemText(0).StartsWith("Emperor Edition")),"no redundant printing dropdown");
             var source=PublishedContent.Snapshot.Decks.First(d=>d.Clan=="Crane");
             var all=new[]{source.StrongholdId,"oracle-l5r-1106","oracle-l5r-679"}.Concat(source.Dynasty).Concat(source.Fate);
             var entries=all.GroupBy(id=>id).Select(g=>new DeckEntry(_screen.Data.Cards.Single(c=>c.Id==g.Key).Name,g.Count())).ToArray();
             var path=_screen.Store.Save("Crane — Court and Steel",new Deck("Emperor",entries));Check(_screen.OpenFile(path),"published deck loads into builder");await Wait(5);await Capture("mat");
+            var more=Walk(_screen).OfType<MenuButton>().Single();Click(more);await Wait(.3);Check(more.GetPopup().ItemCount==2,"compact save-copy and export actions available");await Capture("deck-actions");KeyPress(Key.Escape);await Wait(.3);
+            Click(Walk(_screen).OfType<OptionButton>().First(o=>o.Text=="All clans"&&o.IsVisibleInTree()));await Wait(.3);await Capture("filter-menu");KeyPress(Key.Escape);await Wait(.3);
             var before=_screen.Draft.Review();Check(before.Dynasty==source.Dynasty.Length&&before.Fate==source.Fate.Length,"authoritative source totals");
             var card=_screen.Data.Cards.First(c=>c.Name=="Daidoji Kenshi");
             Search(card.Name);await Wait(.6);var plus=Walk(_screen.Collection).OfType<Button>().Single(b=>b.AccessibilityName=="Add "+card.Name);Click(plus);await Wait(.5);Check(_screen.Dirty,"native quantity edit marks draft dirty");
@@ -46,7 +48,7 @@ public partial class DeckBuilderProbe : Node
             Check(_screen.Mat.GetGlobalRect().End.X<=1280,"mat within compact viewport");
             GetWindow().Size=new Vector2I(1920,1080);await Wait(.5);await Capture("wide-window");
             _screen.QueueFree();await Wait(.3);var main=GD.Load<PackedScene>("res://Main.tscn").Instantiate();AddChild(main);await Wait(2);await Capture("main-menu");
-            var menu=Walk(main).OfType<TitleMenu>().Single();var entry=Walk(menu).OfType<Button>().Single(b=>b.Text=="Deck Builder"&&b.IsVisibleInTree());Click(entry);await Wait(2);
+            var menu=Walk(main).OfType<TitleMenu>().Single();Check(menu.Entries.GetChildren().OfType<Button>().All(b=>b.GetGlobalRect().End.Y<=GetViewport().GetVisibleRect().Size.Y),"all six menu entries fit in viewport");var entry=Walk(menu).OfType<Button>().Single(b=>string.Equals(b.Text,"Deck Builder",StringComparison.OrdinalIgnoreCase)&&b.IsVisibleInTree());Click(entry);await Wait(2);
             Check(GetTree().Root.GetNodeOrNull("DeckBuilderLayer") is not null,"main menu opens deck builder");await Capture("menu-deck-builder");
             GD.Print("DECK BUILDER PASS: native setup, quantity, search, warnings, comparison, save/load, corrupt import, unsaved cancel, density, responsive captures");
             if(!OS.GetCmdlineUserArgs().Contains("--stay"))GetTree().Quit();

diff --git a/src/L5R.Client/DeckVisuals.cs b/src/L5R.Client/DeckVisuals.cs
@@ -20,11 +20,16 @@ public partial class DeckFace : Button
     {
         var face=new Rect2(3,2,Size.X-6,Size.Y-10);
         for(var i=Math.Min(Copies-1,5);i>0;i--){DrawRect(new Rect2(face.Position+new Vector2(i*.5f,i*1.3f),face.Size),new Color("b7a47c"));DrawRect(new Rect2(face.Position+new Vector2(i*.5f,i*1.3f),face.Size),new Color("24201b"),false,1);}
+        if(IsHovered()||HasFocus()||Selected)
+        {
+            var glow=new StyleBoxFlat{BgColor=Colors.Transparent,ShadowColor=new Color(.95f,.64f,.2f,.5f),ShadowSize=12,CornerRadiusTopLeft=4,CornerRadiusTopRight=4,CornerRadiusBottomLeft=4,CornerRadiusBottomRight=4};glow.Draw(GetCanvasItem(),face.Grow(3));
+        }
         DrawRect(face.Grow(2),new Color("8a7045"));DrawRect(face,new Color("070b0e"));
         var tex=_scans.Get(Card.Printings.FirstOrDefault());
         if(tex is not null){var k=Math.Min(face.Size.X/tex.GetWidth(),face.Size.Y/tex.GetHeight());var size=tex.GetSize()*k;DrawTextureRect(tex,new Rect2(face.Position+(face.Size-size)/2,size),false);}
         else {DrawString(Palette.Body,new Vector2(8,face.Size.Y*.45f),Card.Name,HorizontalAlignment.Center,Size.X-16,16,CatalogueArt.Ivory);DrawString(Palette.Body,new Vector2(8,face.Size.Y*.55f),"Loading scan…",HorizontalAlignment.Center,Size.X-16,14,CatalogueArt.Muted);}
-        if(IsHovered()||HasFocus()||Selected){for(var i=5;i>0;i--)DrawRect(face.Grow(i),new Color(.95f,.69f,.30f,.16f),false,2);}
+        DeckSkin.Frame().Draw(GetCanvasItem(),face.Grow(2));
+        if(IsHovered()||HasFocus()||Selected)DrawRect(face.Grow(2),new Color("e4ba66"),false,1);
     }
 }
 
@@ -46,7 +51,7 @@ public partial class DeckThumbnail : Control
 /// <summary>Virtualized collection rows and grouped draft tiles share the same bounded layout.</summary>
 public partial class DeckSurface : ScrollContainer
 {
-    private sealed record Entry(CatalogueData.Card? Card,string Heading,Rect2 Rect);
+    private sealed record Entry(CatalogueData.Card? Card,string Heading,Rect2 Rect,int Count=0);
     private readonly Control _sheet=new();
     private List<Entry> _entries=[];
     private readonly Dictionary<int,Control> _visible=[];
@@ -80,7 +85,7 @@ public partial class DeckSurface : ScrollContainer
             string Key(CatalogueData.Card c)=>Setup?"":Group=="Gold"?"GOLD "+(c.Numeric("cost")==double.MaxValue?"—":c.Numeric("cost").ToString()):Group=="None"?"CARDS":string.Join(" / ",c.Types.Select(t=>t=="Personality"?"Personalities":t=="Strategy"?"Strategies":t+"s")).ToUpperInvariant();
             foreach(var group in Cards.GroupBy(Key))
             {
-                if(group.Key.Length>0){_entries.Add(new(null,group.Key,new Rect2(8,y,w-16,30)));y+=34;}
+                if(group.Key.Length>0){_entries.Add(new(null,group.Key,new Rect2(8,y,w-16,30),group.Count()));y+=34;}
                 var i=0;foreach(var card in group){_entries.Add(new(card,"",new Rect2(i%columns*cell+(cell-width)/2,y+i/columns*height,width,height-10)));i++;}
                 y+=(float)Math.Ceiling((double)i/columns)*height+12;
             }
@@ -95,8 +100,19 @@ public partial class DeckSurface : ScrollContainer
         foreach(var i in indices)
         {
             var entry=_entries[i];if(!_visible.TryGetValue(i,out var item))
-            {item=entry.Card is null?CatalogueArt.Label(entry.Heading,23,true):MakeCard(entry.Card);_sheet.AddChild(item);_visible[i]=item;}
+            {item=entry.Card is null?new DeckSectionTitle(entry.Heading,entry.Count):MakeCard(entry.Card);_sheet.AddChild(item);_visible[i]=item;}
             item.Position=entry.Rect.Position;item.Size=entry.Rect.Size;
         }
+    }
+}
+
+public partial class DeckSectionTitle(string title,int count) : Control
+{
+    public override void _Draw()
+    {
+        var font=CatalogueArt.Heading(23);var width=font.GetStringSize(title,fontSize:23).X;
+        DrawString(font,new Vector2(0,22),title,HorizontalAlignment.Left,-1,23,DeckSkin.Text);
+        DrawString(Palette.Body,new Vector2(width+16,22),$"({count} shown)",HorizontalAlignment.Left,-1,17,new Color("c8bb99"));
+        DrawLine(new Vector2(0,29),new Vector2(Size.X,29),new Color(.6f,.44f,.22f,.6f),1);
     }
 }

diff --git a/src/L5R.Client/TitleMenu.cs b/src/L5R.Client/TitleMenu.cs
@@ -71,7 +71,13 @@ public partial class TitleMenu : Control
         Entry("Deck Builder", DeckBuilder);
         Entry("Options", ShowOptions);
         Entry("Quit", ShowQuit);
-        foreach(var button in Entries.GetChildren().OfType<Button>()){button.CustomMinimumSize=new Vector2(0,72);button.AddThemeFontSizeOverride("font_size",66);}
+        foreach(var button in Entries.GetChildren().OfType<Button>())
+        {
+            button.CustomMinimumSize=new Vector2(0,72);
+            var size=66;
+            while(size>20&&(Palette.Title.GetHeight(size)>72||Palette.Title.GetStringSize(button.Text,fontSize:size).X>490))size--;
+            button.AddThemeFontSizeOverride("font_size",size);
+        }
         if (CanResume()) _message.Text = IsOnline() ? "Your private table continues online. Play → Return to table." : "Your practice is paused. Play → Return to table.";
         FocusFirst();
     }

diff --git a/src/L5R.Client/DeckBuilderScreen.Storage.cs b/src/L5R.Client/DeckBuilderScreen.Storage.cs
@@ -25,7 +25,7 @@ public partial class DeckBuilderScreen
         }
         foreach(var path in files)
         {
-            var item=new PanelContainer{CustomMinimumSize=new Vector2(450,285),SizeFlagsHorizontal=SizeFlags.ExpandFill};item.AddThemeStyleboxOverride("panel",CatalogueArt.Frame(18));grid.AddChild(item);
+            var item=new PanelContainer{CustomMinimumSize=new Vector2(450,285),SizeFlagsHorizontal=SizeFlags.ExpandFill};item.AddThemeStyleboxOverride("panel",new DeckPanelStyle());grid.AddChild(item);
             var box=new VBoxContainer();box.AddThemeConstantOverride("separation",12);item.AddChild(box);var name=Path.GetFileNameWithoutExtension(path);box.AddChild(CatalogueArt.Label(name,26));
             try
             {

diff --git a/docs/features/DECK_BUILDER.md b/docs/features/DECK_BUILDER.md
@@ -12,7 +12,7 @@ Save draft accepts incomplete and over-limit lists. Core reports setup/count/usu
 
 Decks use the existing `Legality: Emperor` name-based `.txt` format, with Experienced suffixes retained as distinct choices. There is no cosmetic printing dropdown. Game-supported cards retain pinned printing/rules provenance; reference text is explicitly labeled. Scans come from the local mandatory WebP pack.
 
-Files live in Godot `user://decks`; **Open deck folder** opens the actual platform location. **My decks** opens or duplicates drafts, imports text files and exports shareable text. **Save a copy** creates another named draft. No account is involved.
+Files live in Godot `user://decks`; **Open deck folder** opens the actual platform location. **My decks** opens or duplicates drafts, imports text files and exports shareable text. **More deck actions → Save a copy** creates another named draft; the same menu exports the open draft. No account is involved.
 
 Saving uses a temporary file followed by atomic replacement. Existing unrelated names and externally modified files prompt before replacement. Failed imports validate before replacing the open draft; errors leave edits intact. Leaving an unsaved draft offers Save / Discard changes / Cancel. Ordinary application/process termination is not autosave.
 
@@ -23,3 +23,7 @@ Approved sources: `assets/ui/deck-builder/H-quantity-toolbar.png` and `I-setup-c
 Actual full card scans replace illustrative generated cards. WeatheredQuill uppercase remains the approved application heading font. Different card text, type counts and portrait proportions necessarily differ from illustrative cards; do not distort scans to imitate them.
 
 Run `bash tools/check-deck-builder.sh` on a native graphical desktop. It isolates test decks from user storage and exercises actual keyboard/mouse events, plus storage fault cases. Review setup, mat, comparison, saved-deck and compact-window captures against sources. Run `bash tools/check.sh --skip-client` for Core/content/AI/server/transport checks. Native Mac evidence does not establish Windows graphical acceptance or expert rules acceptance.
+
+## Material refinement pass
+
+The UI lead rejected the first implementation's flat controls. The second pass uses generated lacquer/brass materials in `DeckSkin`, with nine-slice framing, explicit selected tabs, thumbnail setup rows, live radio/checkbox markers, stronger body lettering, and proportionally sampled cloth behind inspection/dialogs. Full source prompts are in `assets/ui/deck-builder/material-pass-prompts.json`. These materials are imported at their intended UI scale; the original generator output remains committed. The working layout and draft semantics are preserved. Final visual acceptance remains with Alfredo; screenshots are evidence, not a claim of pixel-identical approval.
